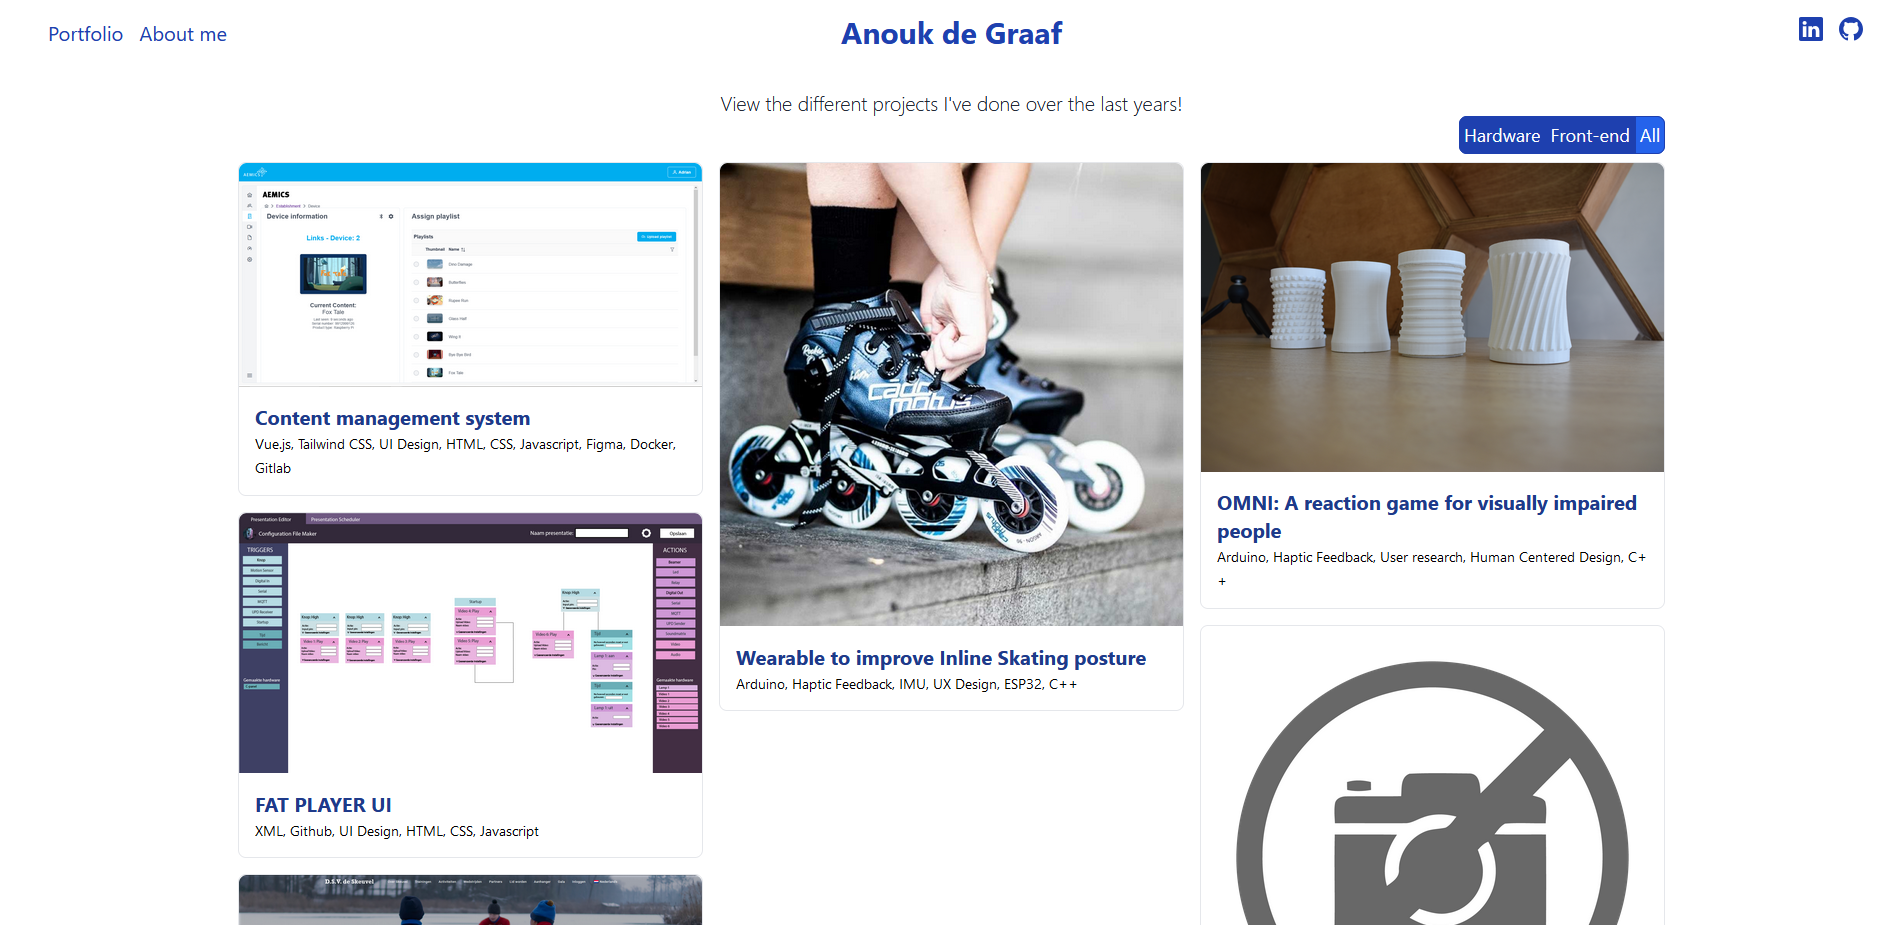
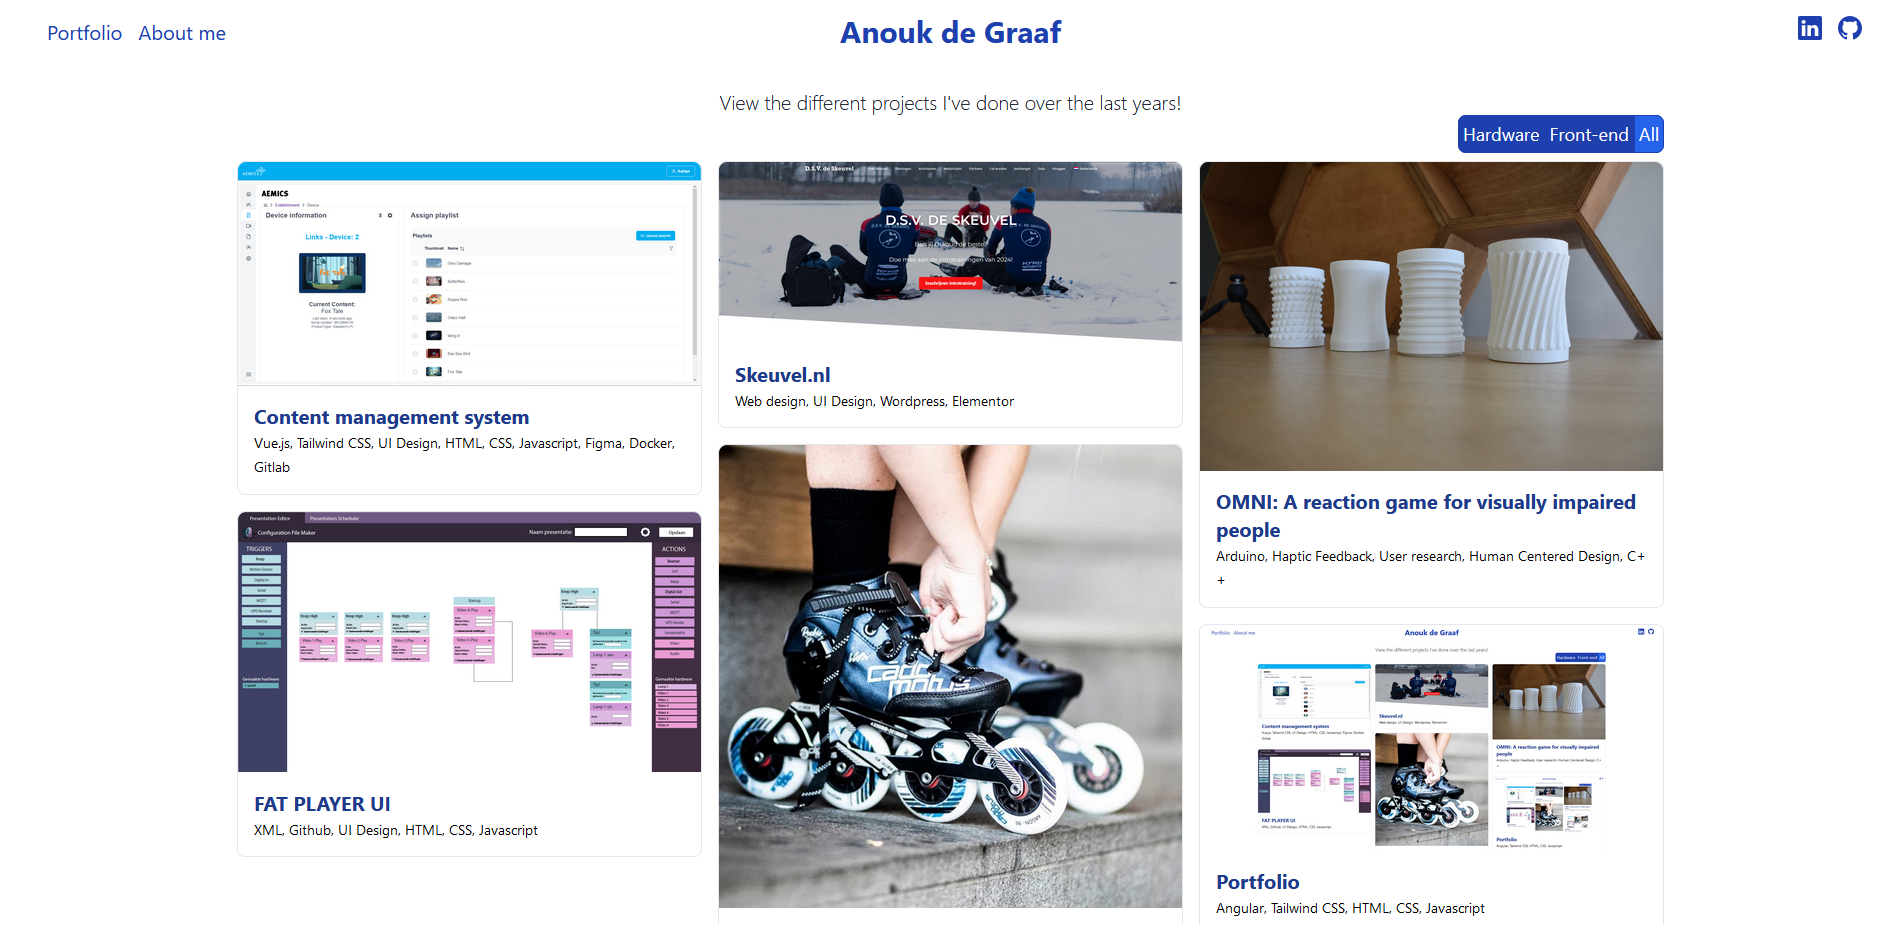
Improve responsiveness and mobile view.

diff --git a/src/app/app.component.html b/src/app/app.component.html
@@ -1,5 +1,5 @@
 <div class="max-w-screen h-full">
-  <div class="flex flex-row h-12 max-w-screen px-10 items-center pt-4">
+  <div class="flex flex-row h-12 max-w-screen lg:px-10 items-center pt-4">
     <nav class="flex flex-row w-full justify-start">
       <ul>
         <li class="px-2">
@@ -7,7 +7,7 @@
             routerLink="/portfolio"
             routerLinkActive="active"
             ariaCurrentWhenActive="page"
-            class="text-blue-800 text-xl"
+            class="text-blue-800 text-lg lg:text-xl"
             >Portfolio</a
           >
         </li>
@@ -16,18 +16,19 @@
             routerLink="/about-me"
             routerLinkActive="active"
             ariaCurrentWhenActive="page"
-            class="text-blue-800 text-xl"
+            class="text-blue-800 text-lg lg:text-xl"
             >About me</a
           >
         </li>
       </ul>
     </nav>
     <h1
-      class="text-blue-800 text-3xl font-bold logo flex w-full justify-center"
+      class="text-blue-800 text-xl hidden lg:flex font-bold logo flex w-full justify-center"
     >
       Anouk de Graaf
     </h1>
-    <div class="flex gap-4 py-2 w-full justify-end">
+
+    <div class="flex gap-4 py-2 px-2 w-full justify-end">
       @for (button of buttons; track button) {
       <a [href]="button.link">
         <ng-icon

diff --git a/src/app/portfolio/portfolio.component.html b/src/app/portfolio/portfolio.component.html
@@ -1,8 +1,8 @@
-<div class="flex flex-col mx-auto w-3/4 py-10">
+<div class="flex flex-col mx-auto w-full md:w-3/4 px-5 md:px-0 py-10">
   <p class="text-xl text-center text-gray-900 font-light">
     View the different projects I've done over the last years!
   </p>
-  <div class="flex flex-row justify-end">
+  <div class="flex flex-row lg:justify-end lg:p-0 justify-center p-5">
     @for (filter of filters; track filter) {
     <button
       class="border border-blue-800 text-lg text-white p-1 mb-2
@@ -16,7 +16,7 @@
     }
   </div>
 
-  <div class="columns-3 gap-4">
+  <div class="columns-1 md:columns-2 lg:columns-3 gap-4 md:p-0">
     @for (item of portfolioItems; track item.name) {
     <a routerLink="/portfolio/{{ item.weblink }}">
       <div

diff --git a/src/index.html b/src/index.html
@@ -1,13 +1,13 @@
-<!doctype html>
+<!DOCTYPE html>
 <html lang="en">
-<head>
-  <meta charset="utf-8">
-  <title>Portfolio2</title>
-  <base href="/">
-  <meta name="viewport" content="width=device-width, initial-scale=1">
-  <link rel="icon" type="image/x-icon" href="favicon.ico">
-</head>
-<body>
-  <app-root></app-root>
-</body>
+  <head>
+    <meta charset="utf-8" />
+    <title>Anouk de Graaf</title>
+    <base href="/" />
+    <meta name="viewport" content="width=device-width, initial-scale=1" />
+    <!-- <link rel="icon" type="image/x-icon" href="favicon.ico" /> -->
+  </head>
+  <body>
+    <app-root></app-root>
+  </body>
 </html>

diff --git a/src/app/about-me/about-me.component.html b/src/app/about-me/about-me.component.html
@@ -1,5 +1,5 @@
-<div class="flex flex-col px-40 py-10 justify-center">
-  <div class="w-1/2 mx-auto flex flex-row">
+<div class="flex flex-col justify-center px-5 md:p-0">
+  <div class="w-full md:w-3/4 lg:w-1/2 mx-auto flex flex-row">
     <div class="w-1/2 p-4">
       Hello! My name is Anouk de Graaf. I am a developer situated between
       Amsterdam and Utrecht! I have studied Creative Technology and Interaction

diff --git a/src/styles.scss b/src/styles.scss
@@ -5,13 +5,6 @@
 @tailwind utilities;
 
 
-@font-face {
-    font-family: 'NothingYouCouldDo';
-    src: 'assets/fonts/NothingYouCouldDo-Regular.tff';
-    font-weight: normal;
-    font-style: normal;
-}
-
 body {
     font-size: 16px;
 }

diff --git a/src/app/portfolio/portfolio-item/portfolio-item.component.html b/src/app/portfolio/portfolio-item/portfolio-item.component.html
@@ -1,4 +1,4 @@
-<div class="flex w-1/2 mx-auto py-20">
+<div class="flex w-full md:w-3/4 lg:w-1/2 mx-auto px-5 md:px-0 py-20">
   @if(item$) {
   <div class="w-full flex flex-col">
     <div>
